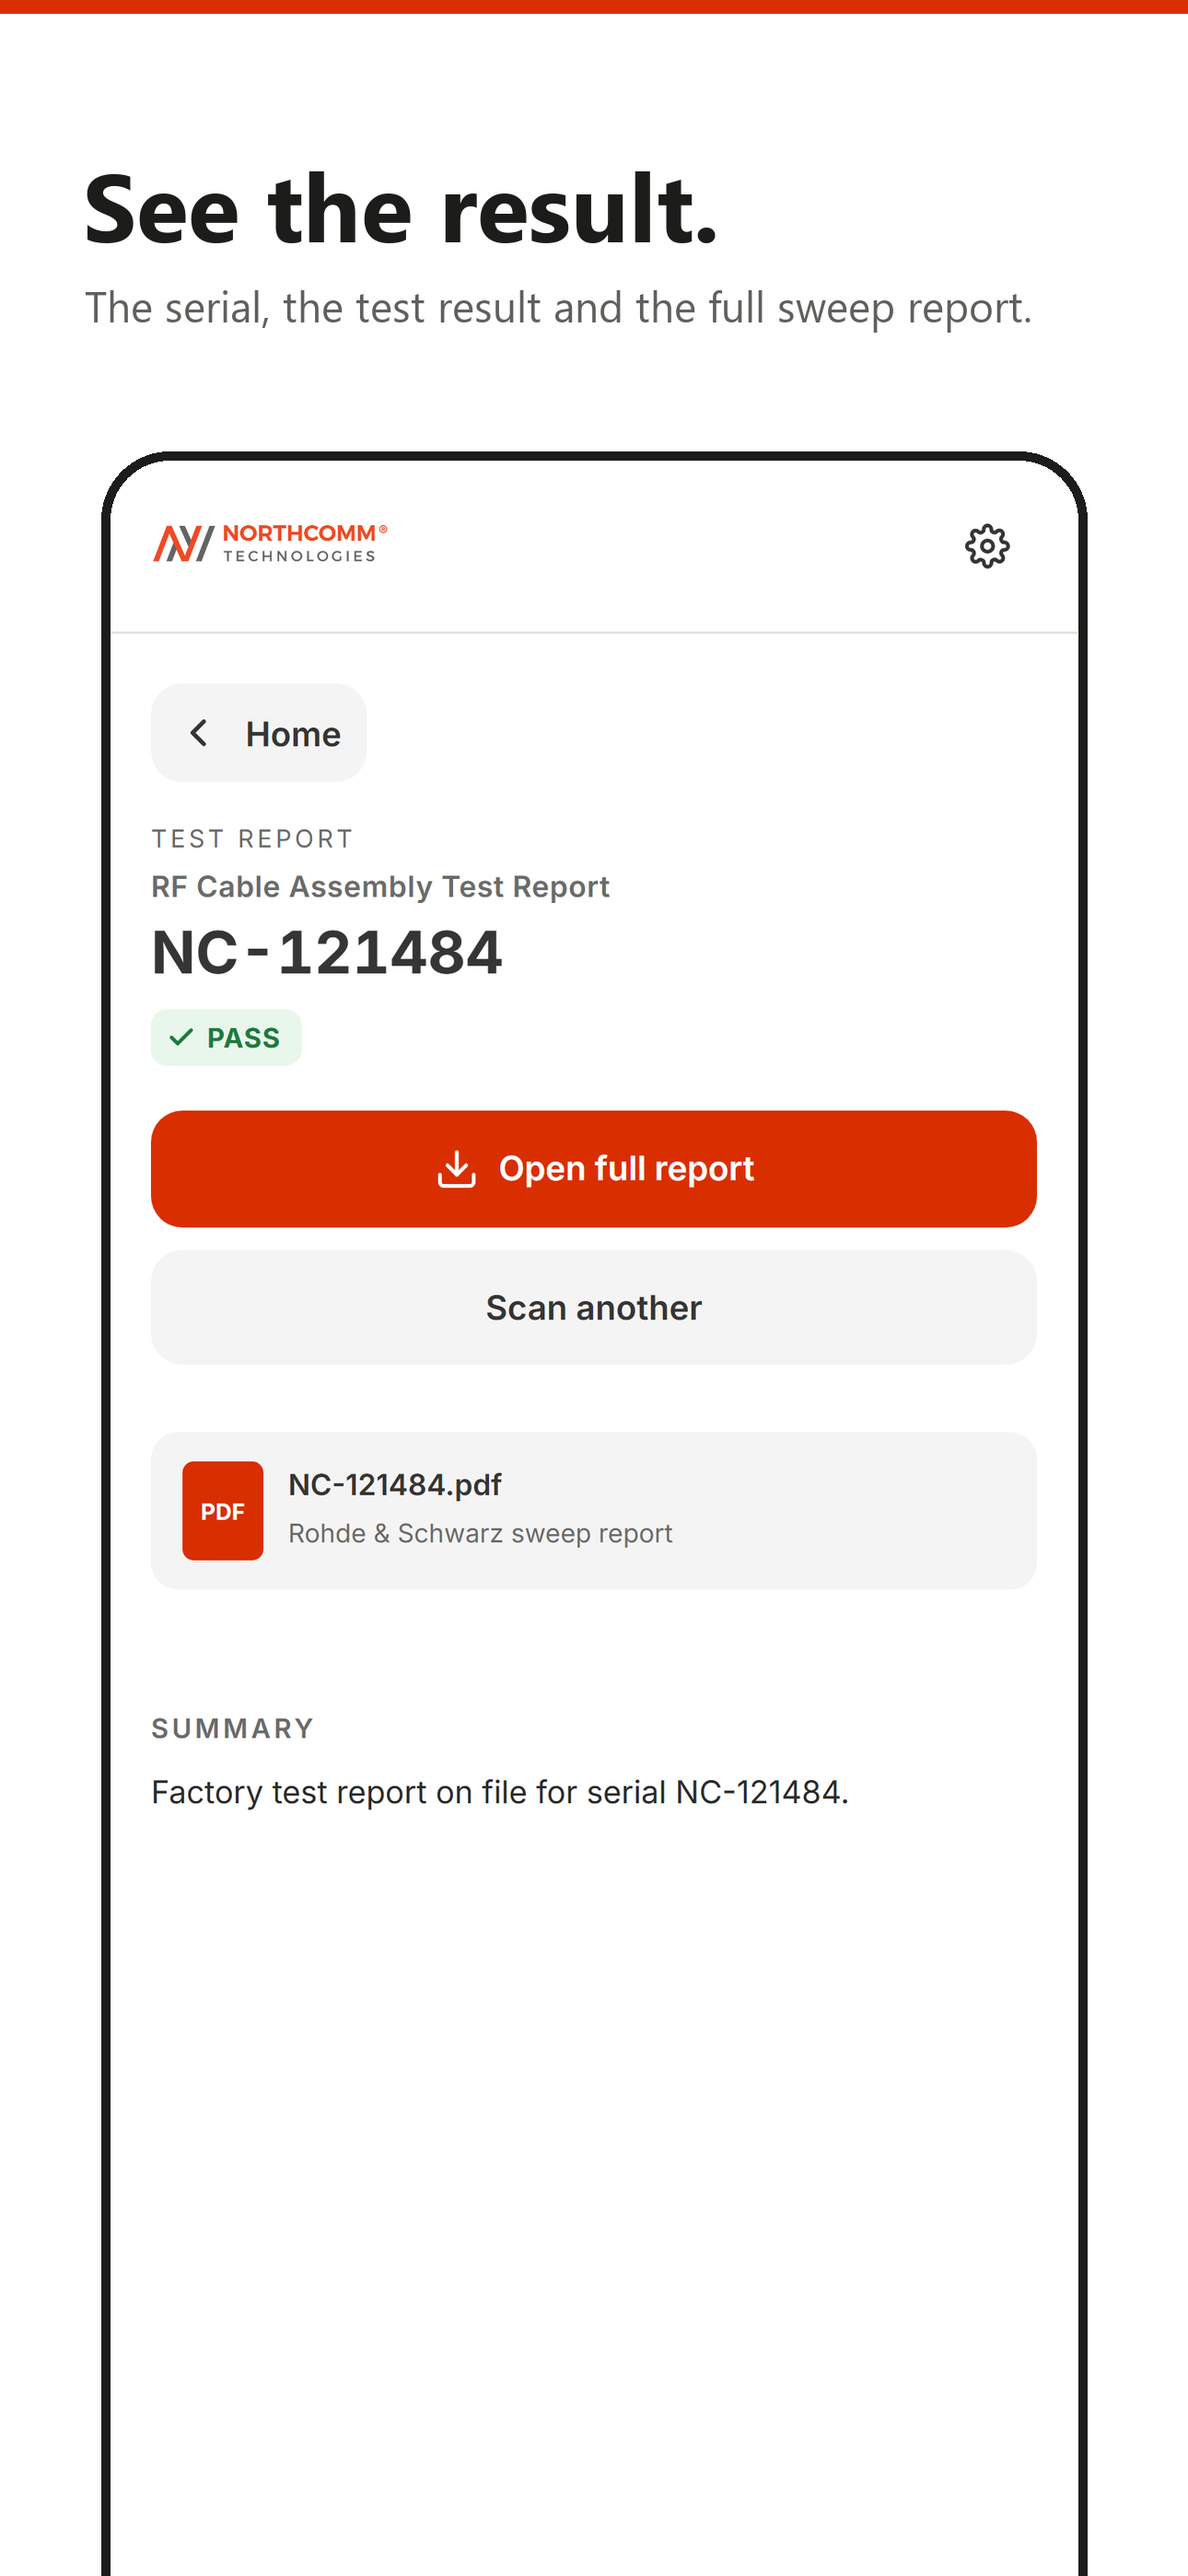
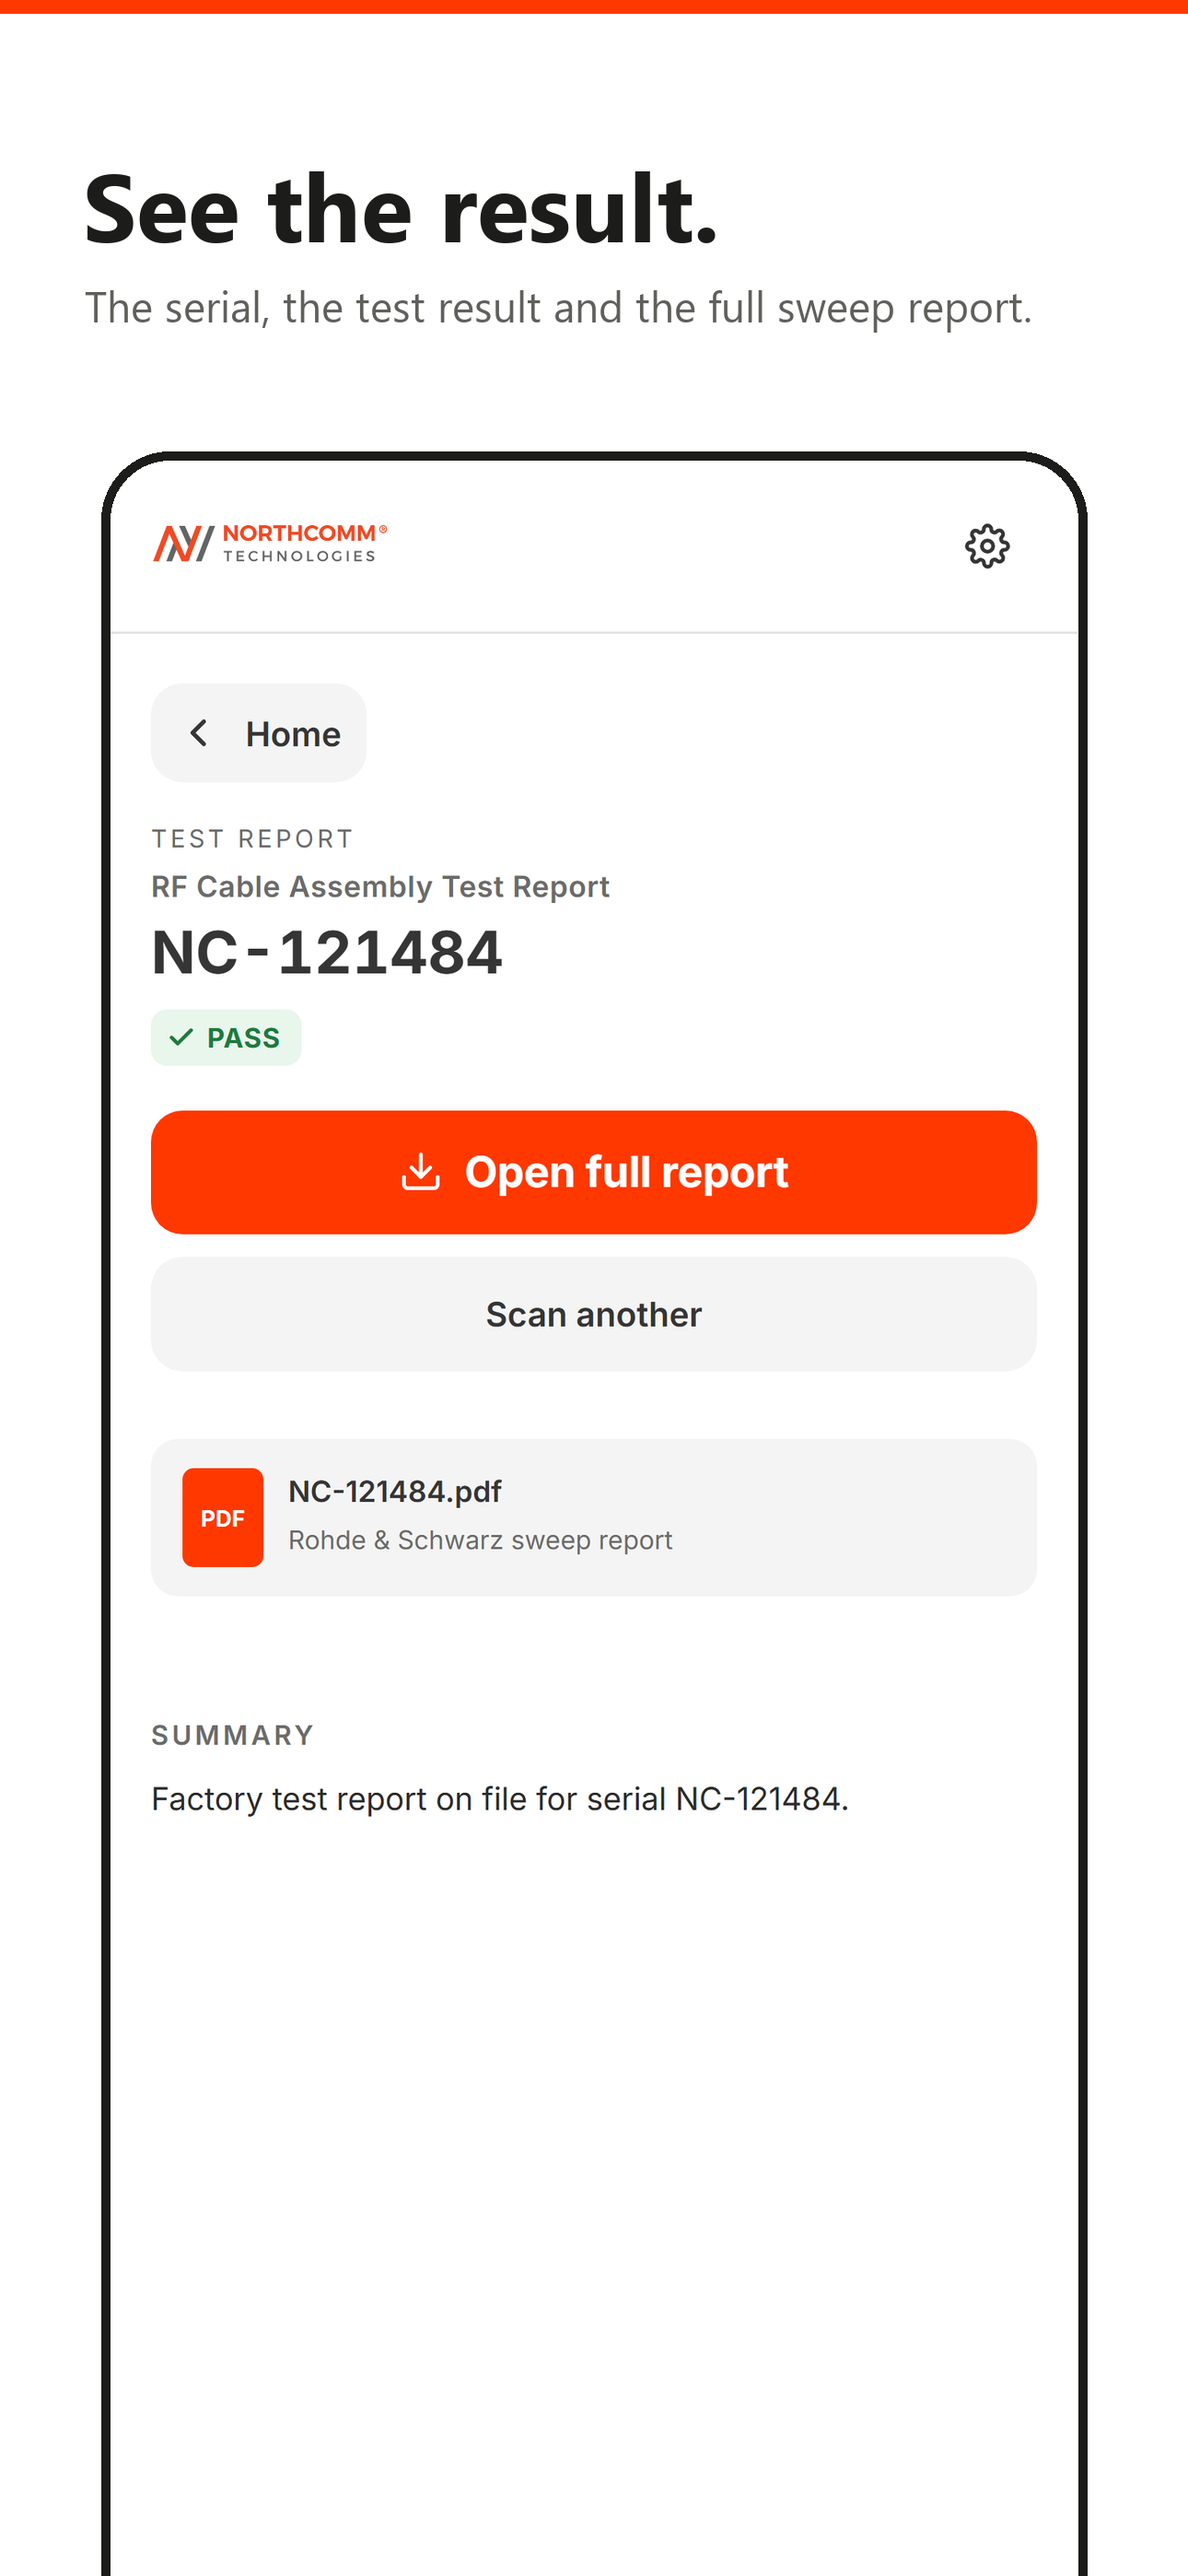
Brand orange #FF3800 on buttons and accents (labels sized 19px bold so white text stays AA for large text); App Store previews reshot

diff --git a/index.html b/index.html
@@ -18,7 +18,7 @@
   @font-face{font-family:"Inter";src:url("fonts/inter-700.woff2") format("woff2");font-weight:700;font-style:normal;font-display:swap}
   :root{
     color-scheme:light;
-    --ink:#353535; --slab:#353535; --err:#c0392b; --signal:#d92f00; --signal-press:#b32700;
+    --ink:#353535; --slab:#353535; --err:#c0392b; --signal:#FF3800; --signal-press:#e03100; --signal-text:#c72c00;
     --paper:#ffffff; --mist:#f4f4f4; --line:#e4e2df; --steel:#6b6b69;
     --field:#202020; --text:#2b2b2b; --radius:14px;
     --sans:"Inter",system-ui,-apple-system,"Segoe UI",Roboto,"Helvetica Neue",Arial,sans-serif;
@@ -104,7 +104,7 @@
   .sheet-head{background:var(--slab);color:#fff;padding:18px}
   .sheet-head .k{font-size:11px;letter-spacing:.14em;text-transform:uppercase;color:rgba(255,255,255,.6)}
   .sheet-head h2{font-size:19px;font-weight:700;margin-top:7px;line-height:1.35}
-  .sheet-head .pn{color:var(--signal);font-size:13px;font-weight:600;margin-top:7px;font-variant-numeric:tabular-nums}
+  .sheet-head .pn{color:var(--signal-text);font-size:13px;font-weight:600;margin-top:7px;font-variant-numeric:tabular-nums}
   .accentbar{height:4px;background:var(--signal)}
   .doc{padding:20px 18px}
   .pillrow{display:flex;gap:8px;flex-wrap:wrap;margin-bottom:16px}
@@ -144,7 +144,7 @@
   .qcard .qimg canvas,.qcard .qimg img{width:100%;height:100%}
   .qcard .qt{font-size:14px;font-weight:600;color:var(--ink);line-height:1.4}
   .qcard .qs{font-size:12px;color:var(--steel);margin-top:6px;line-height:1.5}
-  .qcard .simbtn{margin-top:12px;font-size:12px;font-weight:600;color:var(--signal);background:none;border:1px solid var(--signal);border-radius:8px;padding:11px 12px;cursor:pointer;font-family:inherit}
+  .qcard .simbtn{margin-top:12px;font-size:12px;font-weight:600;color:var(--signal-text);background:none;border:1px solid var(--signal);border-radius:8px;padding:11px 12px;cursor:pointer;font-family:inherit}
 
   /* manual entry */
   .manual{margin:2px 18px 0;display:flex;gap:8px}
@@ -177,7 +177,7 @@
   .login input:focus{outline:none;border-color:var(--signal)}
   .login .err{font-size:13px;color:var(--err);text-align:center;min-height:16px}
   .login .swap{text-align:center;font-size:13.5px;color:var(--steel)}
-  .login .swap button{background:none;border:none;color:var(--signal);font-family:inherit;font-size:13.5px;font-weight:600;cursor:pointer;text-decoration:underline;padding:12px 8px;min-height:44px}
+  .login .swap button{background:none;border:none;color:var(--signal-text);font-family:inherit;font-size:13.5px;font-weight:600;cursor:pointer;text-decoration:underline;padding:12px 8px;min-height:44px}
   .acctbtn{width:44px;height:44px;border:none;background:transparent;color:var(--ink);cursor:pointer;border-radius:10px;display:flex;align-items:center;justify-content:center}
   .acctbtn:hover{background:var(--mist)}
   .acctbtn svg{width:21px;height:21px}
@@ -267,6 +267,8 @@
   .doc .pillrow{display:none}
   .qcard{gap:8px}
   .bar{min-height:62px}
+  .btn-primary{font-size:19px;font-weight:700;letter-spacing:-.005em}
+  .btn-primary .sub,.btn-primary small{font-size:14px;font-weight:600}
 </style>
 
 <div class="app">

diff --git a/sw.js b/sw.js
@@ -1,4 +1,4 @@
-const CACHE = "northcomm-specs-8";
+const CACHE = "northcomm-specs-9";
 const ASSETS = [
   "./",
   "./index.html",
